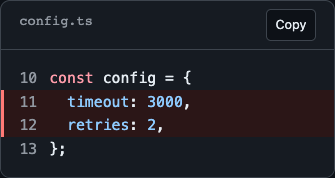
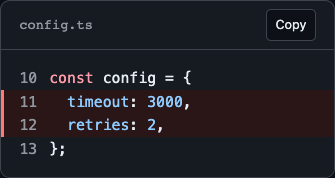
fix(renderer): vertically center single-line code titles

Changed region(s): [[0.0597, 0.0843, 0.2985, 0.1966]]

diff --git a/packages/renderer/src/styles.ts b/packages/renderer/src/styles.ts
@@ -121,7 +121,7 @@ pre code {
 .code-block pre:focus-visible { outline: 2px solid var(--mote-accent); outline-offset: -3px; }
 .code-toolbar { display: grid; grid-template-columns: minmax(0, 1fr) auto; align-items: start; gap: 0.5rem 0.75rem; padding: 0.5rem 1.15rem; border-bottom: 1px solid var(--mote-border); min-width: 0; }
 .code-toolbar[hidden], .code-copy[hidden] { display: none; }
-.code-title { grid-column: 1; grid-row: 1; min-width: 0; overflow-wrap: anywhere; font-family: monospace; font-size: 0.8em; color: var(--mote-muted); }
+.code-title { grid-column: 1; grid-row: 1; align-self: center; min-width: 0; overflow-wrap: anywhere; font-family: monospace; font-size: 0.8em; color: var(--mote-muted); }
 .code-copy { grid-column: 2; grid-row: 1; margin-left: auto; padding: 0.3em 0.65em; border: 1px solid var(--mote-border); border-radius: 5px; color: var(--mote-fg); background: var(--mote-bg); font: inherit; font-size: 0.75em; cursor: pointer; }
 .code-copy:hover { border-color: var(--mote-accent); }
 .code-copy:focus-visible { outline: 2px solid var(--mote-accent); outline-offset: 2px; }
